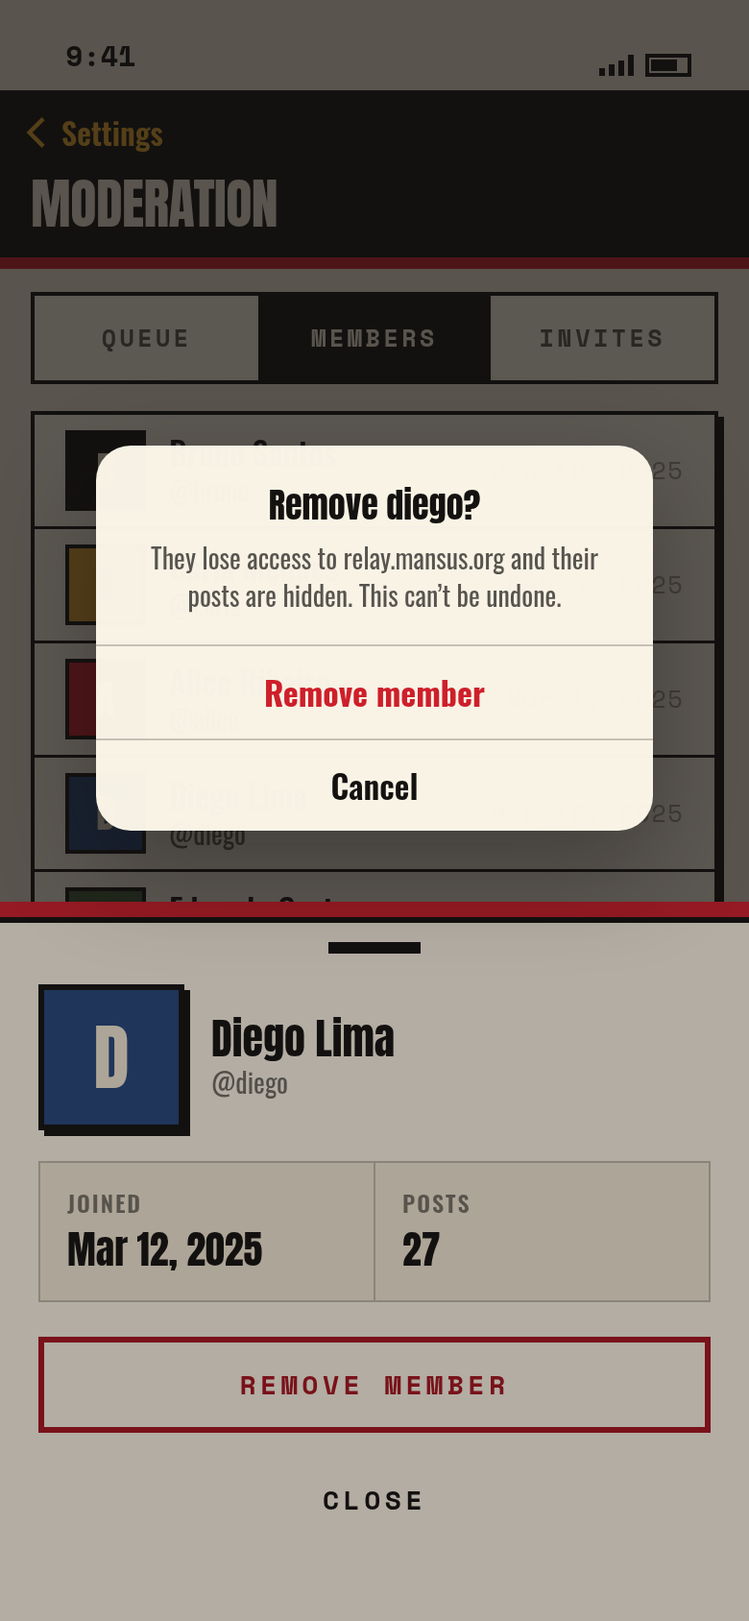
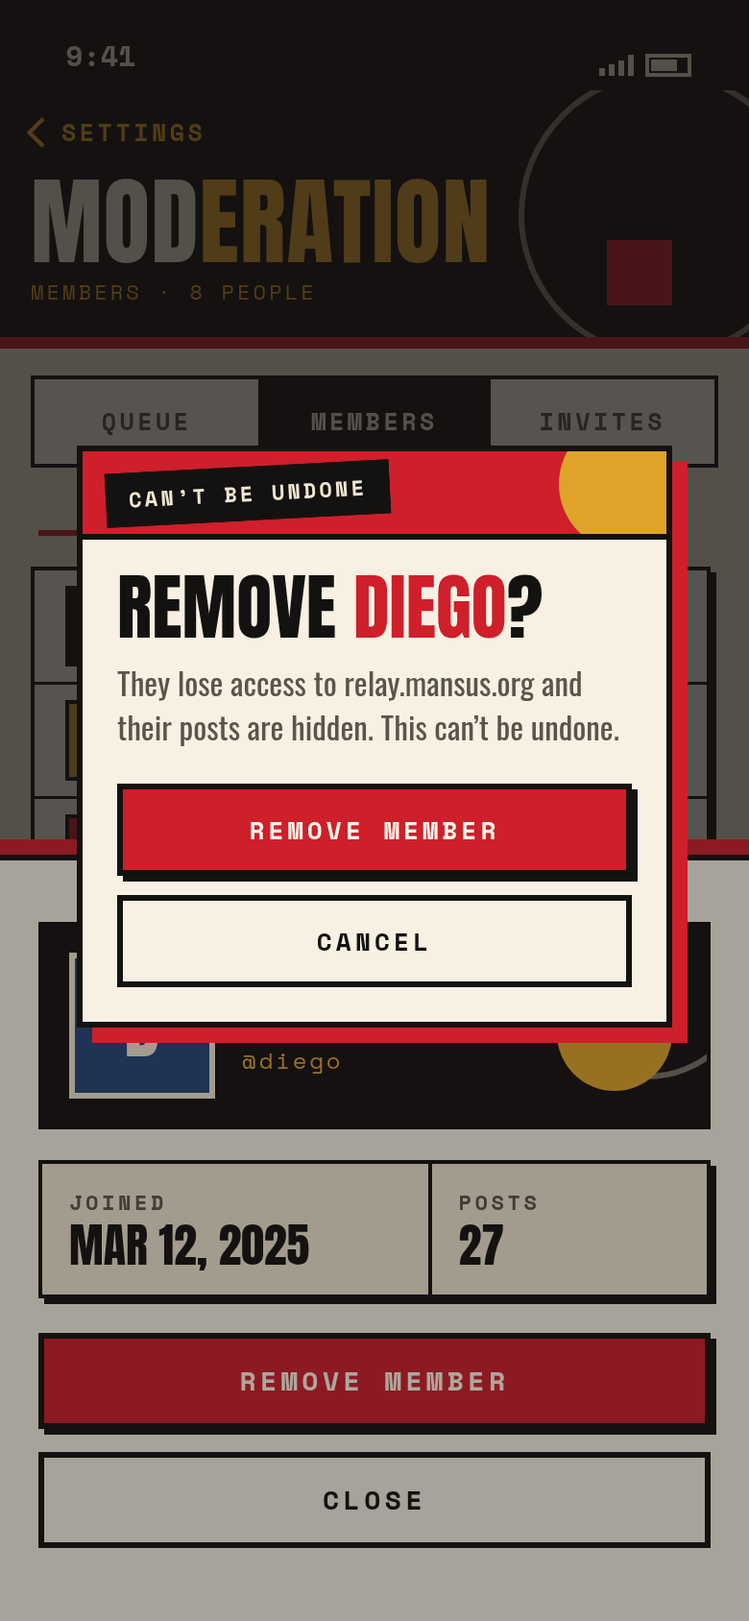
RELY-78 Restyle admin screens 40-45 in the poster language

diff --git a/mobile-mockups/admin.css b/mobile-mockups/admin.css
@@ -1,76 +1,101 @@
-/* Admin screens (40-45): classes layered on shared.css. */
-.back-btn{display:inline-flex;align-items:center;gap:2px;height:44px;margin-left:-8px;padding-right:8px;color:var(--ochre);font-weight:600;font-size:16px}
+/* Admin screens (40-45): classes layered on shared.css (poster language). */
+.back-btn{position:relative;z-index:2;display:inline-flex;align-items:center;gap:2px;height:44px;margin-left:-8px;padding-right:8px;color:var(--ochre);font-family:var(--mono);font-weight:700;font-size:12.5px;letter-spacing:.14em;text-transform:uppercase}
 .back-btn .ic{width:22px;height:22px}
-.navbar.stack{display:block;padding:0 16px 12px}
-.navbar.stack .navbar-title{font-size:28px;font-weight:800;letter-spacing:-.01em;margin-top:0}
-.admin-seg{padding:12px 16px 4px}
 
-/* AI decision badge */
-.ai{display:inline-flex;align-items:center;gap:5px;height:24px;padding:0 9px;border-radius:999px;font-size:11.5px;font-weight:700;letter-spacing:.06em;border:1px solid var(--hair);white-space:nowrap}
-.ai.approved{color:var(--ink);background:transparent}
-.ai.flagged{background:rgba(223,163,42,.22);border-color:rgba(223,163,42,.7);color:#7a5200}
-.ai.removed{background:var(--red);border-color:var(--red);color:var(--paper)}
-.ai.lg{height:30px;padding:0 12px;font-size:12.5px}
+/* black header band with geometric accent bleeding off the right edge */
+.navbar.stack{display:block;position:relative;overflow:hidden;padding:0 16px 16px}
+.navbar.stack .navbar-title{position:relative;z-index:2;font-size:50px;line-height:.9;margin-top:2px}
+.navbar.stack .navbar-title .ochre{color:var(--ochre)}
+.navbar.stack .navbar-sub{position:relative;z-index:2}
+.navbar.stack .geo-ring{color:var(--paper);opacity:.5}
+.navbar.stack.flat .navbar-title{font-size:30px}
+.admin-seg{padding:14px 16px 4px}
 
-/* queue rows */
-.qlist{display:flex;flex-direction:column;gap:10px;padding:10px 16px 24px}
-.qrow{background:var(--surface);border:1px solid var(--hair);border-radius:var(--r-card);padding:12px 14px}
+/* AI decision badge: square colour block */
+.ai{display:inline-flex;align-items:center;gap:5px;height:26px;padding:0 9px;border:2px solid var(--ink);font-family:var(--mono);font-size:11px;font-weight:700;letter-spacing:.12em;white-space:nowrap}
+.ai.approved{background:var(--surface);color:var(--ink)}
+.ai.flagged{background:var(--ochre);color:var(--ink)}
+.ai.removed{background:var(--red);color:var(--on-red)}
+.ai.lg{height:32px;padding:0 12px;font-size:12.5px;box-shadow:var(--shadow-sm)}
+
+/* queue rows: ink cards with a status bar on the left */
+.qlist{display:flex;flex-direction:column;gap:14px;padding:16px 20px 24px 16px}
+.qrow{position:relative;background:var(--surface);border:var(--line);box-shadow:var(--shadow-sm);padding:12px 14px 14px 22px}
+.qrow::before{content:"";position:absolute;left:0;top:0;bottom:0;width:8px;background:var(--ink);border-right:var(--line)}
+.qrow.flagged::before{background:var(--ochre)}
+.qrow.removed::before{background:var(--red)}
 .qrow-top{display:flex;align-items:center;gap:10px}
-.qrow-top .who b{font-size:15px}
+.qrow-top .who b{font-size:17px}
 .qrow-top .ai{margin-left:auto}
-.qrow-body{margin-top:8px;font-size:15px;line-height:1.45;display:-webkit-box;-webkit-line-clamp:2;-webkit-box-orient:vertical;overflow:hidden}
+.qrow-body{margin-top:8px;font-size:16.5px;line-height:1.4;display:-webkit-box;-webkit-line-clamp:2;-webkit-box-orient:vertical;overflow:hidden}
 
 /* post detail */
-.detail{padding:16px}
-.detail .card-body{font-size:18px;margin-top:12px}
-.ai-box{margin-top:16px;background:var(--surface);border:1px solid var(--hair);border-radius:var(--r-card);padding:14px 16px}
-.ai-box-head{display:flex;align-items:center;gap:10px}
-.ai-box-head .conf{margin-left:auto;font-size:13px;font-weight:600;opacity:.6}
-.ai-box p{margin-top:10px;font-size:15px;line-height:1.5}
-.conf-bar{height:6px;border-radius:3px;background:var(--paper-2);margin-top:12px;overflow:hidden}
-.conf-bar i{display:block;height:100%;background:var(--ochre);border-radius:3px}
-.actionbar{position:absolute;left:0;right:0;bottom:0;z-index:30;display:flex;gap:10px;padding:12px 16px 34px;background:rgba(251,246,233,.96);border-top:1px solid var(--hair)}
+.detail{padding:22px 22px 16px 16px;position:relative}
+.detail .post{position:relative;background:var(--surface);border:var(--line);box-shadow:var(--shadow);padding:16px 16px 18px}
+.detail .post .stamp{position:absolute;right:-8px;top:-16px}
+.detail .card-body{font-size:19px;margin-top:12px;padding-bottom:0}
+.ai-box{margin-top:22px;background:var(--surface);border:3px solid var(--ink);box-shadow:5px 5px 0 var(--ochre)}
+.ai-box-head{display:flex;align-items:center;gap:10px;padding:10px 14px;background:var(--ink);color:var(--paper)}
+.ai-box-head .conf{font-family:var(--mono);font-size:11px;font-weight:700;letter-spacing:.16em;text-transform:uppercase;color:var(--ochre)}
+.ai-box-head .score{margin-left:auto;font-family:var(--display);font-size:34px;line-height:1;color:var(--ochre)}
+.ai-box-body{padding:14px 16px 16px}
+.ai-box p{font-size:16.5px;line-height:1.45}
+.conf-bar{height:14px;border:var(--line);background:var(--paper-2);margin-bottom:12px}
+.conf-bar i{display:block;height:100%;background:var(--ochre);border-right:var(--line)}
+.actionbar{position:absolute;left:0;right:0;bottom:0;z-index:30;display:flex;gap:12px;padding:14px 16px 34px;background:var(--paper);border-top:3px solid var(--ink)}
 .actionbar .btn{flex:1}
-.btn.solid-danger{background:var(--red-deep);border-color:var(--red-deep);color:var(--paper)}
+.btn.solid-danger{background:var(--red);color:var(--on-red);border-color:var(--ink);box-shadow:var(--shadow-sm)}
+.btn.approve{background:var(--ochre);color:var(--ink);box-shadow:var(--shadow-sm)}
 
 /* members */
-.mrow .row-end{opacity:.55;font-weight:400;font-size:12.5px}
+.mrow .row-end{font-size:11px;letter-spacing:.08em;text-transform:uppercase}
+.mrow .row-title{font-weight:600}
+.mlist{padding:0 20px 24px 16px}
+.mlist .avatar.c1,.mlist .avatar.c2,.mlist .avatar.c3,.mlist .avatar.c4,.mlist .avatar.c5,.mlist .avatar.c6{box-shadow:none}
 
 /* sheet details */
-.sheet-id{display:flex;align-items:center;gap:14px;margin:6px 0 16px}
-.sheet-id .name{font-family:var(--display);font-weight:800;font-size:22px;line-height:1.15}
-.sheet-id .handle{font-size:14px;opacity:.6}
-.stats{display:flex;border:1px solid var(--hair);border-radius:var(--r-card);background:var(--paper)}
+.sheet{padding-top:10px}
+.sheet-id{position:relative;overflow:hidden;display:flex;align-items:center;gap:14px;margin:6px 0 16px;padding:14px;border:var(--line);background:var(--ink);color:var(--paper)}
+.sheet-id > :not([class^=geo]){position:relative;z-index:1}
+.sheet-id .avatar{border-color:var(--paper);box-shadow:none}
+.sheet-id .name{font-family:var(--display);font-size:32px;line-height:1;text-transform:uppercase}
+.sheet-id .handle{font-family:var(--mono);font-size:12px;letter-spacing:.12em;color:var(--ochre);margin-top:4px}
+.stats{display:flex;border:var(--line);background:var(--paper);box-shadow:var(--shadow-sm)}
 .stats > div{flex:1;padding:12px 14px}
-.stats > div + div{border-left:1px solid var(--hair)}
-.stats .k{font-size:12px;font-weight:600;text-transform:uppercase;letter-spacing:.08em;opacity:.55}
-.stats .v{font-family:var(--display);font-weight:800;font-size:20px;margin-top:2px}
+.stats > div:first-child{flex:1.5}
+.sheet .btn.danger{background:var(--red);color:var(--on-red);border-color:var(--ink);box-shadow:var(--shadow-sm)}
+.stats > div + div{border-left:var(--line)}
+.stats .k{font-family:var(--mono);font-size:11px;font-weight:700;text-transform:uppercase;letter-spacing:.16em;color:var(--ink-2)}
+.stats .v{font-family:var(--display);font-size:24px;white-space:nowrap;line-height:1.1;margin-top:2px;text-transform:uppercase}
 
-/* native-style alert */
-.alert{position:absolute;left:50%;top:50%;z-index:90;width:290px;margin:-190px 0 0 -145px;border-radius:18px;background:rgba(251,246,233,.98);box-shadow:0 20px 50px rgba(20,18,16,.35);overflow:hidden;text-align:center}
-.alert-body{padding:20px 18px 16px}
-.alert-title{font-family:var(--display);font-weight:800;font-size:18px;line-height:1.25}
-.alert-msg{margin-top:6px;font-size:14px;line-height:1.4;opacity:.7}
-.alert-actions{display:flex;flex-direction:column;border-top:1px solid var(--hair)}
-.alert-actions a{display:grid;place-items:center;height:48px;font-size:17px;font-weight:600;color:var(--ink)}
-.alert-actions a + a{border-top:1px solid var(--hair)}
-.alert-actions a.destructive{color:var(--red);font-weight:700}
+/* native-style alert, squared off */
+.alert{position:absolute;left:50%;top:50%;z-index:90;width:310px;margin:-190px 0 0 -155px;background:var(--surface);border:3px solid var(--ink);box-shadow:8px 8px 0 var(--red);overflow:hidden;text-align:left}
+.alert-head{position:relative;height:46px;background:var(--red);border-bottom:3px solid var(--ink);overflow:hidden}
+.alert-head .stamp{position:absolute;left:12px;top:8px;height:28px;transform:rotate(-3deg)}
+.alert-body{padding:18px 18px 18px}
+.alert-title{font-family:var(--display);font-size:38px;line-height:.92;text-transform:uppercase}
+.alert-title .hot{color:var(--red)}
+.alert-msg{margin-top:10px;font-size:16.5px;line-height:1.4;color:var(--ink-2)}
+.alert-actions{display:flex;flex-direction:column;gap:10px;padding:0 18px 18px}
+.alert-actions a{display:flex;align-items:center;justify-content:center;height:48px;border:3px solid var(--ink);font-family:var(--mono);font-weight:700;font-size:13px;letter-spacing:.16em;text-transform:uppercase;color:var(--ink)}
+.alert-actions a.destructive{background:var(--red);color:var(--on-red);box-shadow:var(--shadow-sm)}
 
 /* invites */
-.invite-top{padding:12px 16px 0}
-.new-invite{margin:14px 16px 0;background:var(--surface);border:1px solid var(--red);border-radius:var(--r-card);padding:14px 16px}
-.new-invite .label{color:var(--red);opacity:1}
-.url{margin-top:8px;padding:11px 12px;border-radius:12px;background:var(--paper);border:1px solid var(--hair);font-size:13px;font-weight:600;word-break:break-all;line-height:1.35}
-.url span{opacity:.5;font-weight:400}
-.new-invite .btns{display:flex;gap:10px;margin-top:12px}
+.invite-top{padding:14px 20px 0 16px}
+.new-invite{position:relative;margin:20px 20px 0 16px;background:var(--surface);border:3px solid var(--ink);box-shadow:5px 5px 0 var(--red);padding:14px 16px 16px}
+.new-invite .stamp{position:absolute;right:-8px;top:-16px}
+.url{margin-top:10px;padding:12px;background:var(--ink);color:var(--paper);font-family:var(--mono);font-size:12.5px;font-weight:700;word-break:break-all;line-height:1.4}
+.url span{color:var(--ochre)}
+.new-invite .btns{display:flex;gap:10px;margin-top:14px}
 .new-invite .btns .btn{flex:1}
-.pill{display:inline-flex;align-items:center;height:24px;padding:0 10px;border-radius:999px;font-size:12px;font-weight:700;letter-spacing:.04em;border:1px solid var(--hair)}
-.pill.pending{color:var(--ink);background:rgba(223,163,42,.22);border-color:rgba(223,163,42,.7)}
-.pill.used{opacity:.6}
-.pill.revoked{color:var(--red-deep);border-color:rgba(165,20,31,.35)}
-.swipe{position:relative;overflow:hidden;border-top:1px solid var(--hair)}
+.pill{display:inline-flex;align-items:center;height:26px;padding:0 9px;border:2px solid var(--ink);font-family:var(--mono);font-size:11px;font-weight:700;letter-spacing:.12em}
+.pill.pending{background:var(--ochre);color:var(--ink)}
+.pill.used{background:var(--ink);color:var(--paper)}
+.pill.revoked{background:var(--surface);color:var(--red-text);border-color:var(--red-text);text-decoration:line-through}
+.swipe{position:relative;overflow:hidden;border-top:1.5px solid var(--ink)}
 .swipe .row{border-top:0;background:var(--surface);position:relative;z-index:1;transition:none}
 .swipe.open .row{padding-right:108px}
-.swipe .revoke{z-index:2;position:absolute;top:0;right:0;bottom:0;width:92px;display:grid;place-items:center;background:var(--red);color:var(--paper);font-weight:700;font-size:15px}
+.swipe .revoke{z-index:2;position:absolute;top:0;right:0;bottom:0;width:92px;display:grid;place-items:center;background:var(--red);color:var(--on-red);border-left:var(--line);font-family:var(--mono);font-weight:700;font-size:12.5px;letter-spacing:.12em;text-transform:uppercase}
 .list > .swipe:first-child{border-top:0}
-.mono{font-variant-numeric:tabular-nums;letter-spacing:.01em}
+.ilist{padding:0 20px 0 16px}
+.mono{font-variant-numeric:tabular-nums}

diff --git a/mobile-mockups/screens/40-admin-queue.html b/mobile-mockups/screens/40-admin-queue.html
@@ -6,18 +6,21 @@
 <link rel="stylesheet" href="../admin.css">
 </head><body>
 <div class="phone">
-  <div class="statusbar"><span>9:41</span><span class="sys"><span class="sig"><i></i><i></i><i></i><i></i></span><span class="batt"></span></span></div>
+  <div class="statusbar dark"><span>9:41</span><span class="sys"><span class="sig"><i></i><i></i><i></i><i></i></span><span class="batt"></span></span></div>
   <header class="navbar stack">
+    <span class="geo-sun" style="width:130px;height:130px;right:-34px;top:8px"></span>
+    <span class="geo-wedge flip" style="width:110px;height:60px;right:-6px;top:80px"></span>
     <a class="back-btn"><i class="ic ic-back"></i>Settings</a>
-    <div class="navbar-title">Moderation</div>
+    <div class="navbar-title">Mod<span class="ochre">eration</span></div>
+    <div class="navbar-sub">Review queue · 5 posts</div>
   </header>
     <div class="admin-seg"><div class="seg"><button class="on">Queue</button><button>Members</button><button>Invites</button></div></div>
   <main class="screen"><div class="qlist">
-      <div class="qrow"><div class="qrow-top"><span class="avatar sm c4">D</span><div class="who"><b>diego</b><span class="when">12 min ago</span></div><span class="ai flagged">FLAGGED 82%</span></div><p class="qrow-body">Vendo ingresso do show de sábado, chama no privado que passo o PIX. Aceito só hoje, preço de custo.</p></div>
-      <div class="qrow"><div class="qrow-top"><span class="avatar sm c6">F</span><div class="who"><b>fabio</b><span class="when">40 min ago</span></div><span class="ai removed">REMOVED 96%</span></div><p class="qrow-body">Ganhe dinheiro rápido sem sair de casa, clique no link e cadastre-se agora mesmo para receber seu bônus.</p></div>
-      <div class="qrow"><div class="qrow-top"><span class="avatar sm c2">B</span><div class="who"><b>bruno</b><span class="when">1 h ago</span></div><span class="ai approved">APPROVED 94%</span></div><p class="qrow-body">Feira de domingo na Praça Benedito Calixto está linda hoje. Pastel de queijo e caldo de cana, quem vem?</p></div>
-      <div class="qrow"><div class="qrow-top"><span class="avatar sm c3">C</span><div class="who"><b>carla</b><span class="when">2 h ago</span></div><span class="ai approved">APPROVED 88%</span></div><p class="qrow-body">Alguém sabe se o metrô Faria Lima está funcionando normal? Vi um aviso na estação.</p></div>
-      <div class="qrow"><div class="qrow-top"><span class="avatar sm c5">E</span><div class="who"><b>eduardo</b><span class="when">3 h ago</span></div><span class="ai flagged">FLAGGED 67%</span></div><p class="qrow-body">Esse síndico é um ladrão, todo mundo sabe o que ele fez com o dinheiro do condomínio da Vila Madalena.</p></div>
+      <div class="qrow flagged"><div class="qrow-top"><span class="avatar sm c4">D</span><div class="who"><b>diego</b><span class="when">12 min ago</span></div><span class="ai flagged">FLAGGED 82%</span></div><p class="qrow-body">Vendo ingresso do show de sábado, chama no privado que passo o PIX. Aceito só hoje, preço de custo.</p></div>
+      <div class="qrow removed"><div class="qrow-top"><span class="avatar sm c6">F</span><div class="who"><b>fabio</b><span class="when">40 min ago</span></div><span class="ai removed">REMOVED 96%</span></div><p class="qrow-body">Ganhe dinheiro rápido sem sair de casa, clique no link e cadastre-se agora mesmo para receber seu bônus.</p></div>
+      <div class="qrow approved"><div class="qrow-top"><span class="avatar sm c2">B</span><div class="who"><b>bruno</b><span class="when">1 h ago</span></div><span class="ai approved">APPROVED 94%</span></div><p class="qrow-body">Feira de domingo na Praça Benedito Calixto está linda hoje. Pastel de queijo e caldo de cana, quem vem?</p></div>
+      <div class="qrow approved"><div class="qrow-top"><span class="avatar sm c3">C</span><div class="who"><b>carla</b><span class="when">2 h ago</span></div><span class="ai approved">APPROVED 88%</span></div><p class="qrow-body">Alguém sabe se o metrô Faria Lima está funcionando normal? Vi um aviso na estação.</p></div>
+      <div class="qrow flagged"><div class="qrow-top"><span class="avatar sm c5">E</span><div class="who"><b>eduardo</b><span class="when">3 h ago</span></div><span class="ai flagged">FLAGGED 67%</span></div><p class="qrow-body">Esse síndico é um ladrão, todo mundo sabe o que ele fez com o dinheiro do condomínio da Vila Madalena.</p></div>
   </div></main>
   <nav class="tabbar">
     <a class="tab"><i class="ic ic-feed"></i>Feed</a>

diff --git a/mobile-mockups/screens/44-admin-remove-confirm.html b/mobile-mockups/screens/44-admin-remove-confirm.html
@@ -6,13 +6,16 @@
 <link rel="stylesheet" href="../admin.css">
 </head><body>
 <div class="phone">
-  <div class="statusbar"><span>9:41</span><span class="sys"><span class="sig"><i></i><i></i><i></i><i></i></span><span class="batt"></span></span></div>
+  <div class="statusbar dark"><span>9:41</span><span class="sys"><span class="sig"><i></i><i></i><i></i><i></i></span><span class="batt"></span></span></div>
   <header class="navbar stack">
+    <span class="geo-ring" style="width:150px;height:150px;right:-30px;top:-10px"></span>
+    <span class="geo-square" style="width:34px;height:34px;right:40px;top:78px"></span>
     <a class="back-btn"><i class="ic ic-back"></i>Settings</a>
-    <div class="navbar-title">Moderation</div>
+    <div class="navbar-title">Mod<span class="ochre">eration</span></div>
+    <div class="navbar-sub">Members · 8 people</div>
   </header>
     <div class="admin-seg"><div class="seg"><button>Queue</button><button class="on">Members</button><button>Invites</button></div></div>
-  <main class="screen"><div style="padding:10px 16px 24px"><div class="list">
+  <main class="screen"><div class="section-label" style="padding-left:20px">Members</div><div class="mlist"><div class="list">
       <div class="row mrow"><span class="avatar c2">B</span><div class="row-main"><div class="row-title">Bruno Santos</div><div class="row-sub">@bruno</div></div><div class="row-end">Jan 12, 2025</div></div>
       <div class="row mrow"><span class="avatar c3">C</span><div class="row-main"><div class="row-title">Carla Mendes</div><div class="row-sub">@carla</div></div><div class="row-end">Feb 3, 2025</div></div>
       <div class="row mrow"><span class="avatar c1">A</span><div class="row-main"><div class="row-title">Alice Ribeiro</div><div class="row-sub">@alice</div></div><div class="row-end">Mar 1, 2025</div></div>
@@ -31,14 +34,15 @@
   <div class="scrim"></div>
   <div class="sheet">
     <div class="sheet-grab"></div>
-    <div class="sheet-id"><span class="avatar lg c4">D</span><div><div class="name">Diego Lima</div><div class="handle">@diego</div></div></div>
+    <div class="sheet-id"><span class="geo-ring" style="width:110px;height:110px;right:-24px;top:-30px;color:var(--paper);opacity:.45"></span><span class="geo-sun" style="width:60px;height:60px;right:18px;top:26px"></span><span class="avatar lg c4">D</span><div><div class="name">Diego Lima</div><div class="handle">@diego</div></div></div>
     <div class="stats"><div><div class="k">Joined</div><div class="v">Mar 12, 2025</div></div><div><div class="k">Posts</div><div class="v">27</div></div></div>
     <a class="btn danger block" style="margin-top:18px">Remove member</a>
-    <a class="btn block" style="margin-top:10px;border-color:transparent;color:var(--ink)">Close</a>
+    <a class="btn block" style="margin-top:12px">Close</a>
   </div>
-  <div class="scrim" style="z-index:85;background:rgba(20,18,16,.3)"></div>
+  <div class="scrim" style="z-index:85;background:rgba(20,18,16,.35)"></div>
   <div class="alert">
-    <div class="alert-body"><div class="alert-title">Remove diego?</div><div class="alert-msg">They lose access to relay.mansus.org and their posts are hidden. This can’t be undone.</div></div>
+    <div class="alert-head"><span class="stamp ink">Can’t be undone</span><span class="geo-sun" style="width:70px;height:70px;right:-14px;top:-18px"></span></div>
+    <div class="alert-body"><div class="alert-title">Remove <span class="hot">diego</span>?</div><div class="alert-msg">They lose access to relay.mansus.org and their posts are hidden. This can’t be undone.</div></div>
     <div class="alert-actions"><a class="destructive">Remove member</a><a>Cancel</a></div>
   </div>
   <div class="home-ind"></div>

diff --git a/mobile-mockups/screens/43-admin-member-sheet.html b/mobile-mockups/screens/43-admin-member-sheet.html
@@ -6,13 +6,16 @@
 <link rel="stylesheet" href="../admin.css">
 </head><body>
 <div class="phone">
-  <div class="statusbar"><span>9:41</span><span class="sys"><span class="sig"><i></i><i></i><i></i><i></i></span><span class="batt"></span></span></div>
+  <div class="statusbar dark"><span>9:41</span><span class="sys"><span class="sig"><i></i><i></i><i></i><i></i></span><span class="batt"></span></span></div>
   <header class="navbar stack">
+    <span class="geo-ring" style="width:150px;height:150px;right:-30px;top:-10px"></span>
+    <span class="geo-square" style="width:34px;height:34px;right:40px;top:78px"></span>
     <a class="back-btn"><i class="ic ic-back"></i>Settings</a>
-    <div class="navbar-title">Moderation</div>
+    <div class="navbar-title">Mod<span class="ochre">eration</span></div>
+    <div class="navbar-sub">Members · 8 people</div>
   </header>
     <div class="admin-seg"><div class="seg"><button>Queue</button><button class="on">Members</button><button>Invites</button></div></div>
-  <main class="screen"><div style="padding:10px 16px 24px"><div class="list">
+  <main class="screen"><div class="section-label" style="padding-left:20px">Members</div><div class="mlist"><div class="list">
       <div class="row mrow"><span class="avatar c2">B</span><div class="row-main"><div class="row-title">Bruno Santos</div><div class="row-sub">@bruno</div></div><div class="row-end">Jan 12, 2025</div></div>
       <div class="row mrow"><span class="avatar c3">C</span><div class="row-main"><div class="row-title">Carla Mendes</div><div class="row-sub">@carla</div></div><div class="row-end">Feb 3, 2025</div></div>
       <div class="row mrow"><span class="avatar c1">A</span><div class="row-main"><div class="row-title">Alice Ribeiro</div><div class="row-sub">@alice</div></div><div class="row-end">Mar 1, 2025</div></div>
@@ -31,10 +34,10 @@
   <div class="scrim"></div>
   <div class="sheet">
     <div class="sheet-grab"></div>
-    <div class="sheet-id"><span class="avatar lg c4">D</span><div><div class="name">Diego Lima</div><div class="handle">@diego</div></div></div>
+    <div class="sheet-id"><span class="geo-ring" style="width:110px;height:110px;right:-24px;top:-30px;color:var(--paper);opacity:.45"></span><span class="geo-sun" style="width:60px;height:60px;right:18px;top:26px"></span><span class="avatar lg c4">D</span><div><div class="name">Diego Lima</div><div class="handle">@diego</div></div></div>
     <div class="stats"><div><div class="k">Joined</div><div class="v">Mar 12, 2025</div></div><div><div class="k">Posts</div><div class="v">27</div></div></div>
     <a class="btn danger block" style="margin-top:18px">Remove member</a>
-    <a class="btn block" style="margin-top:10px;border-color:transparent;color:var(--ink)">Close</a>
+    <a class="btn block" style="margin-top:12px">Close</a>
   </div>
   <div class="home-ind"></div>
 </div>

diff --git a/mobile-mockups/screens/41-admin-queue-item.html b/mobile-mockups/screens/41-admin-queue-item.html
@@ -6,23 +6,27 @@
 <link rel="stylesheet" href="../admin.css">
 </head><body>
 <div class="phone">
-  <div class="statusbar"><span>9:41</span><span class="sys"><span class="sig"><i></i><i></i><i></i><i></i></span><span class="batt"></span></span></div>
-  <header class="navbar">
+  <div class="statusbar dark"><span>9:41</span><span class="sys"><span class="sig"><i></i><i></i><i></i><i></i></span><span class="batt"></span></span></div>
+  <header class="navbar stack flat">
+    <span class="geo-sun" style="width:110px;height:110px;right:-30px;top:-34px"></span>
+    <span class="geo-wedge flip" style="width:140px;height:56px;right:30px;top:36px"></span>
     <a class="back-btn"><i class="ic ic-back"></i>Queue</a>
+    <div class="navbar-title">Review <span class="ochre">post</span></div>
   </header>
   <main class="screen" style="padding-bottom:84px">
     <article class="detail">
+      <div class="post"><span class="stamp ochre">Flagged</span>
       <div class="card-head"><span class="avatar c4">D</span><div class="who"><b>diego</b><span class="when">12 min ago · Vila Madalena</span></div></div>
-      <p class="card-body">Vendo ingresso do show de sábado, chama no privado que passo o PIX. Aceito só hoje, preço de custo.</p>
+      <p class="card-body">Vendo ingresso do show de sábado, chama no privado que passo o PIX. Aceito só hoje, preço de custo.</p></div>
       <div class="ai-box">
-        <div class="ai-box-head"><span class="ai lg flagged">FLAGGED 82%</span><span class="conf">AI review</span></div>
-        <div class="conf-bar"><i style="width:82%"></i></div>
-        <p>The post offers a paid item and asks readers to move to private messages for payment. That pattern often signals a scam, but nothing in the text is clearly abusive. A human check is recommended.</p>
+        <div class="ai-box-head"><span class="ai lg flagged">FLAGGED 82%</span><span class="conf">AI review</span><span class="score">82%</span></div>
+        <div class="ai-box-body"><div class="conf-bar"><i style="width:82%"></i></div>
+        <p>The post offers a paid item and asks readers to move to private messages for payment. That pattern often signals a scam, but nothing in the text is clearly abusive. A human check is recommended.</p></div>
       </div>
     </article>
     <div class="actionbar">
-      <a class="btn danger"><i class="ic ic-close" style="width:16px;height:16px"></i>Remove</a>
-      <a class="btn primary"><i class="ic ic-check" style="width:18px;height:18px"></i>Approve</a>
+      <a class="btn solid-danger"><i class="ic ic-close" style="width:16px;height:16px"></i>Remove</a>
+      <a class="btn approve"><i class="ic ic-check" style="width:18px;height:18px"></i>Approve</a>
     </div>
   </main>
   <div class="home-ind"></div>

diff --git a/mobile-mockups/screens/45-admin-invites.html b/mobile-mockups/screens/45-admin-invites.html
@@ -6,21 +6,24 @@
 <link rel="stylesheet" href="../admin.css">
 </head><body>
 <div class="phone">
-  <div class="statusbar"><span>9:41</span><span class="sys"><span class="sig"><i></i><i></i><i></i><i></i></span><span class="batt"></span></span></div>
+  <div class="statusbar dark"><span>9:41</span><span class="sys"><span class="sig"><i></i><i></i><i></i><i></i></span><span class="batt"></span></span></div>
   <header class="navbar stack">
+    <span class="geo-quarter" style="width:110px;height:110px;right:0;top:0;transform:scaleX(-1) rotate(-90deg)"></span>
+    <span class="geo-bar" style="width:300px;height:12px;right:-60px;top:84px"></span>
     <a class="back-btn"><i class="ic ic-back"></i>Settings</a>
-    <div class="navbar-title">Moderation</div>
+    <div class="navbar-title">Mod<span class="ochre">eration</span></div>
+    <div class="navbar-sub">Invites · relay.mansus.org</div>
   </header>
     <div class="admin-seg"><div class="seg"><button>Queue</button><button>Members</button><button class="on">Invites</button></div></div>
   <main class="screen">
     <div class="invite-top"><a class="btn primary block"><i class="ic ic-plus" style="width:18px;height:18px"></i>Create invite</a></div>
     <div class="new-invite">
-      <div class="label">New invite</div>
+      <span class="stamp ochre">Fresh</span><div class="label">New invite</div>
       <div class="url">relay.mansus.org/join?token=<span>9f3c1a7e5b2d84</span>…</div>
       <div class="btns"><a class="btn sm">Copy</a><a class="btn sm dark">Share</a></div>
     </div>
     <div class="section-label" style="padding-left:20px">Invites</div>
-    <div style="padding:0 16px"><div class="list">
+    <div class="ilist"><div class="list">
       <div class="swipe open"><div class="row"><div class="row-main"><div class="row-title mono">7c41e9d0…</div><div class="row-sub">Created today</div></div><span class="pill pending">PENDING</span></div><a class="revoke">Revoke</a></div>
       <div class="swipe "><div class="row"><div class="row-main"><div class="row-title mono">a82b6f13…</div><div class="row-sub">Created yesterday</div></div><span class="pill pending">PENDING</span></div></div>
       <div class="swipe "><div class="row"><div class="row-main"><div class="row-title mono">3de0b5a7…</div><div class="row-sub">Used by helena · Sep 2025</div></div><span class="pill used">USED</span></div></div>

diff --git a/mobile-mockups/screens/42-admin-members.html b/mobile-mockups/screens/42-admin-members.html
@@ -6,13 +6,16 @@
 <link rel="stylesheet" href="../admin.css">
 </head><body>
 <div class="phone">
-  <div class="statusbar"><span>9:41</span><span class="sys"><span class="sig"><i></i><i></i><i></i><i></i></span><span class="batt"></span></span></div>
+  <div class="statusbar dark"><span>9:41</span><span class="sys"><span class="sig"><i></i><i></i><i></i><i></i></span><span class="batt"></span></span></div>
   <header class="navbar stack">
+    <span class="geo-ring" style="width:150px;height:150px;right:-30px;top:-10px"></span>
+    <span class="geo-square" style="width:34px;height:34px;right:40px;top:78px"></span>
     <a class="back-btn"><i class="ic ic-back"></i>Settings</a>
-    <div class="navbar-title">Moderation</div>
+    <div class="navbar-title">Mod<span class="ochre">eration</span></div>
+    <div class="navbar-sub">Members · 8 people</div>
   </header>
     <div class="admin-seg"><div class="seg"><button>Queue</button><button class="on">Members</button><button>Invites</button></div></div>
-  <main class="screen"><div style="padding:10px 16px 24px"><div class="list">
+  <main class="screen"><div class="section-label" style="padding-left:20px">Members</div><div class="mlist"><div class="list">
       <div class="row mrow"><span class="avatar c2">B</span><div class="row-main"><div class="row-title">Bruno Santos</div><div class="row-sub">@bruno</div></div><div class="row-end">Jan 12, 2025</div></div>
       <div class="row mrow"><span class="avatar c3">C</span><div class="row-main"><div class="row-title">Carla Mendes</div><div class="row-sub">@carla</div></div><div class="row-end">Feb 3, 2025</div></div>
       <div class="row mrow"><span class="avatar c1">A</span><div class="row-main"><div class="row-title">Alice Ribeiro</div><div class="row-sub">@alice</div></div><div class="row-end">Mar 1, 2025</div></div>
